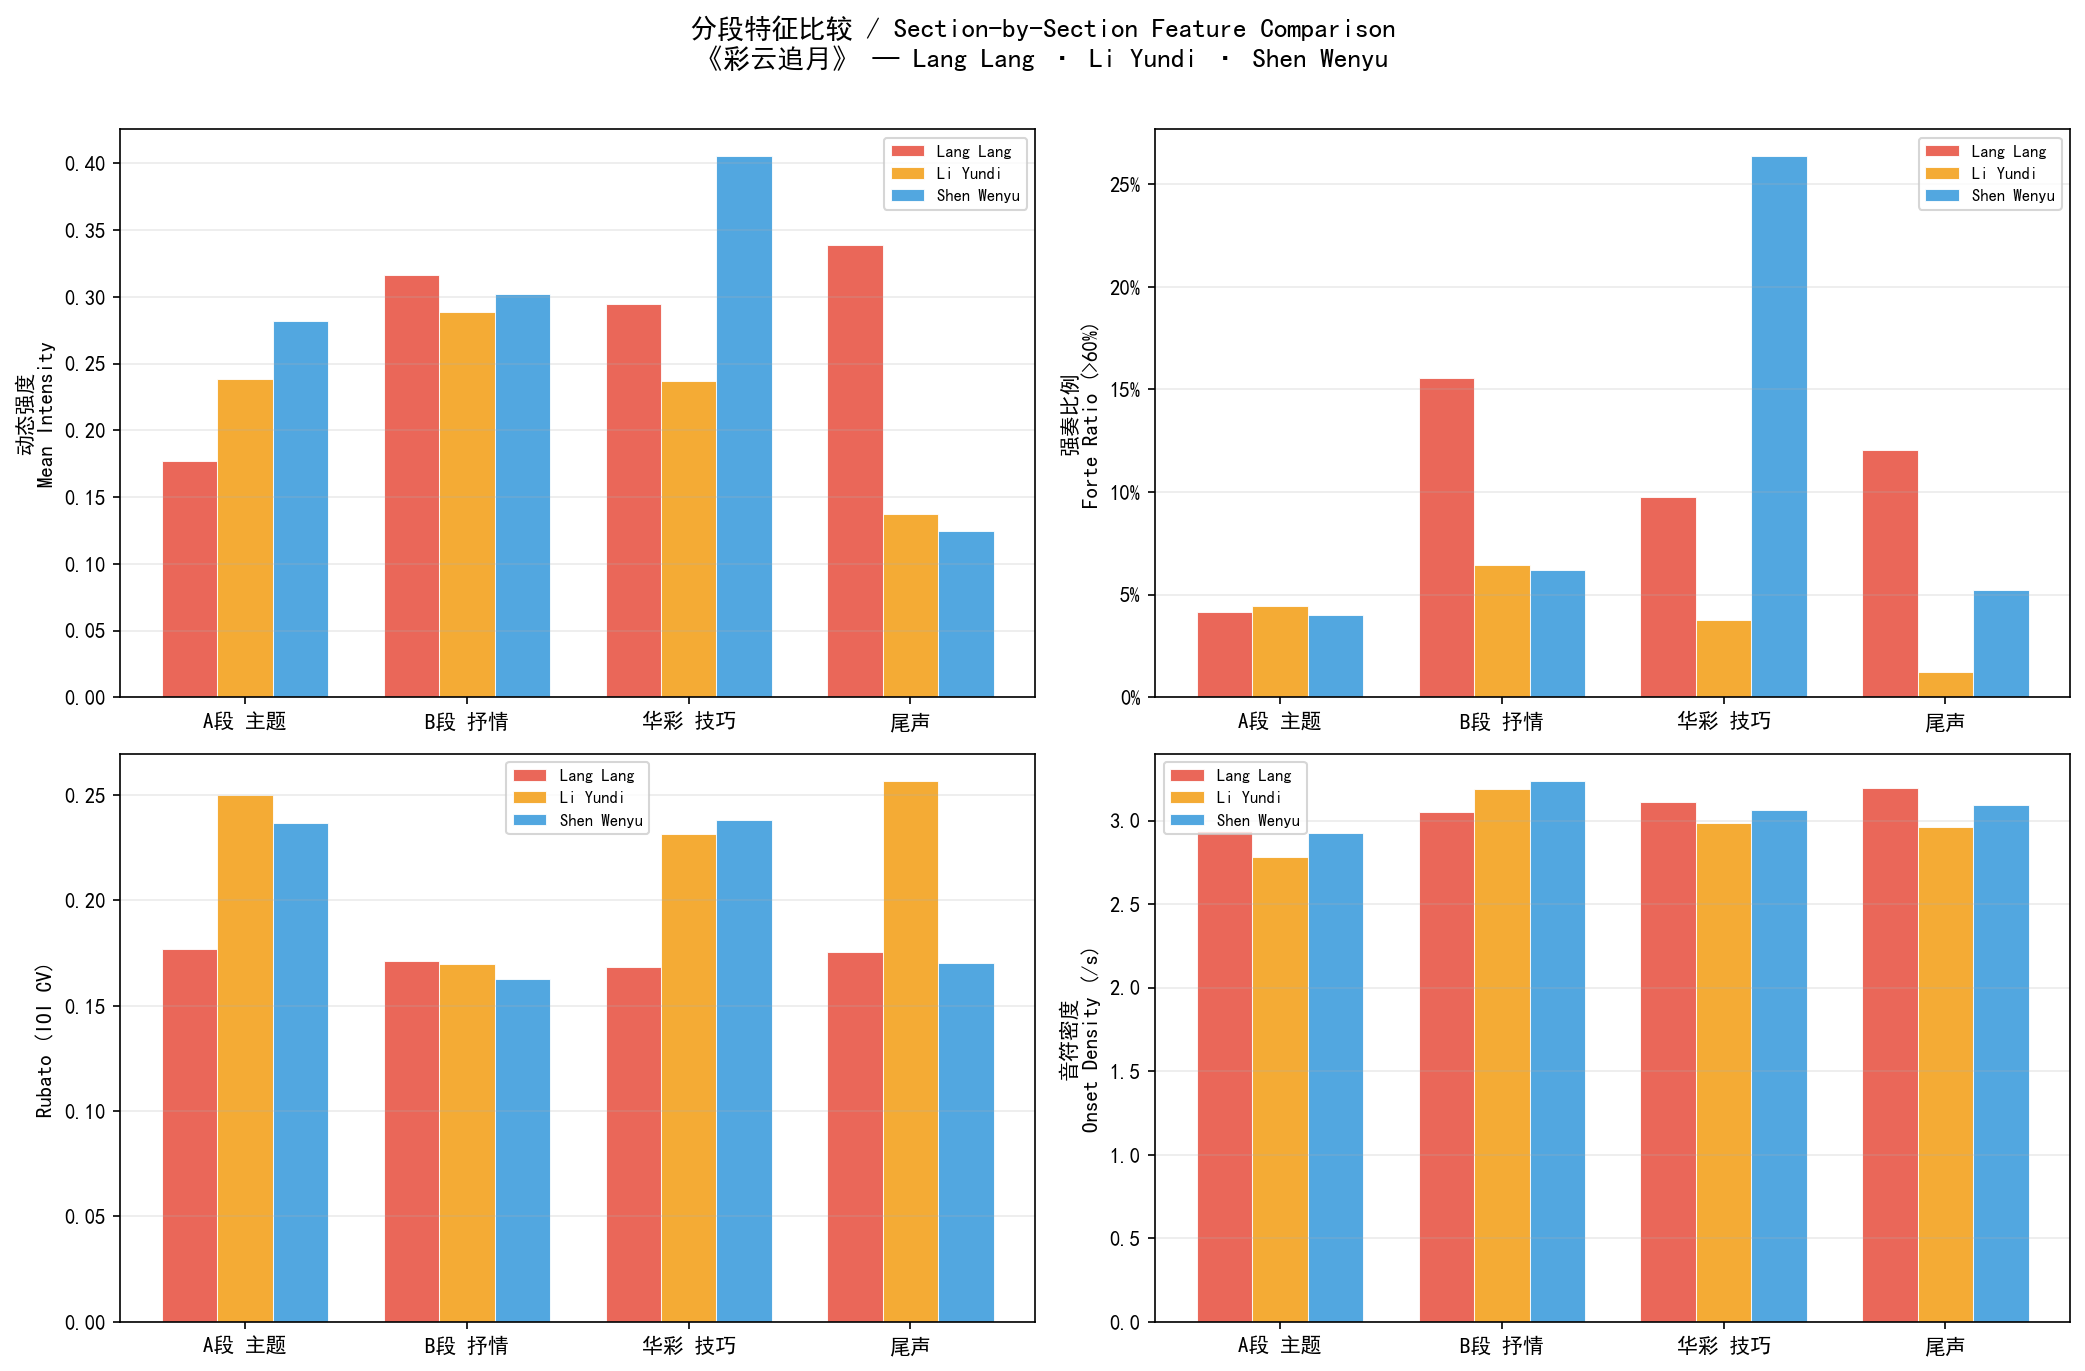
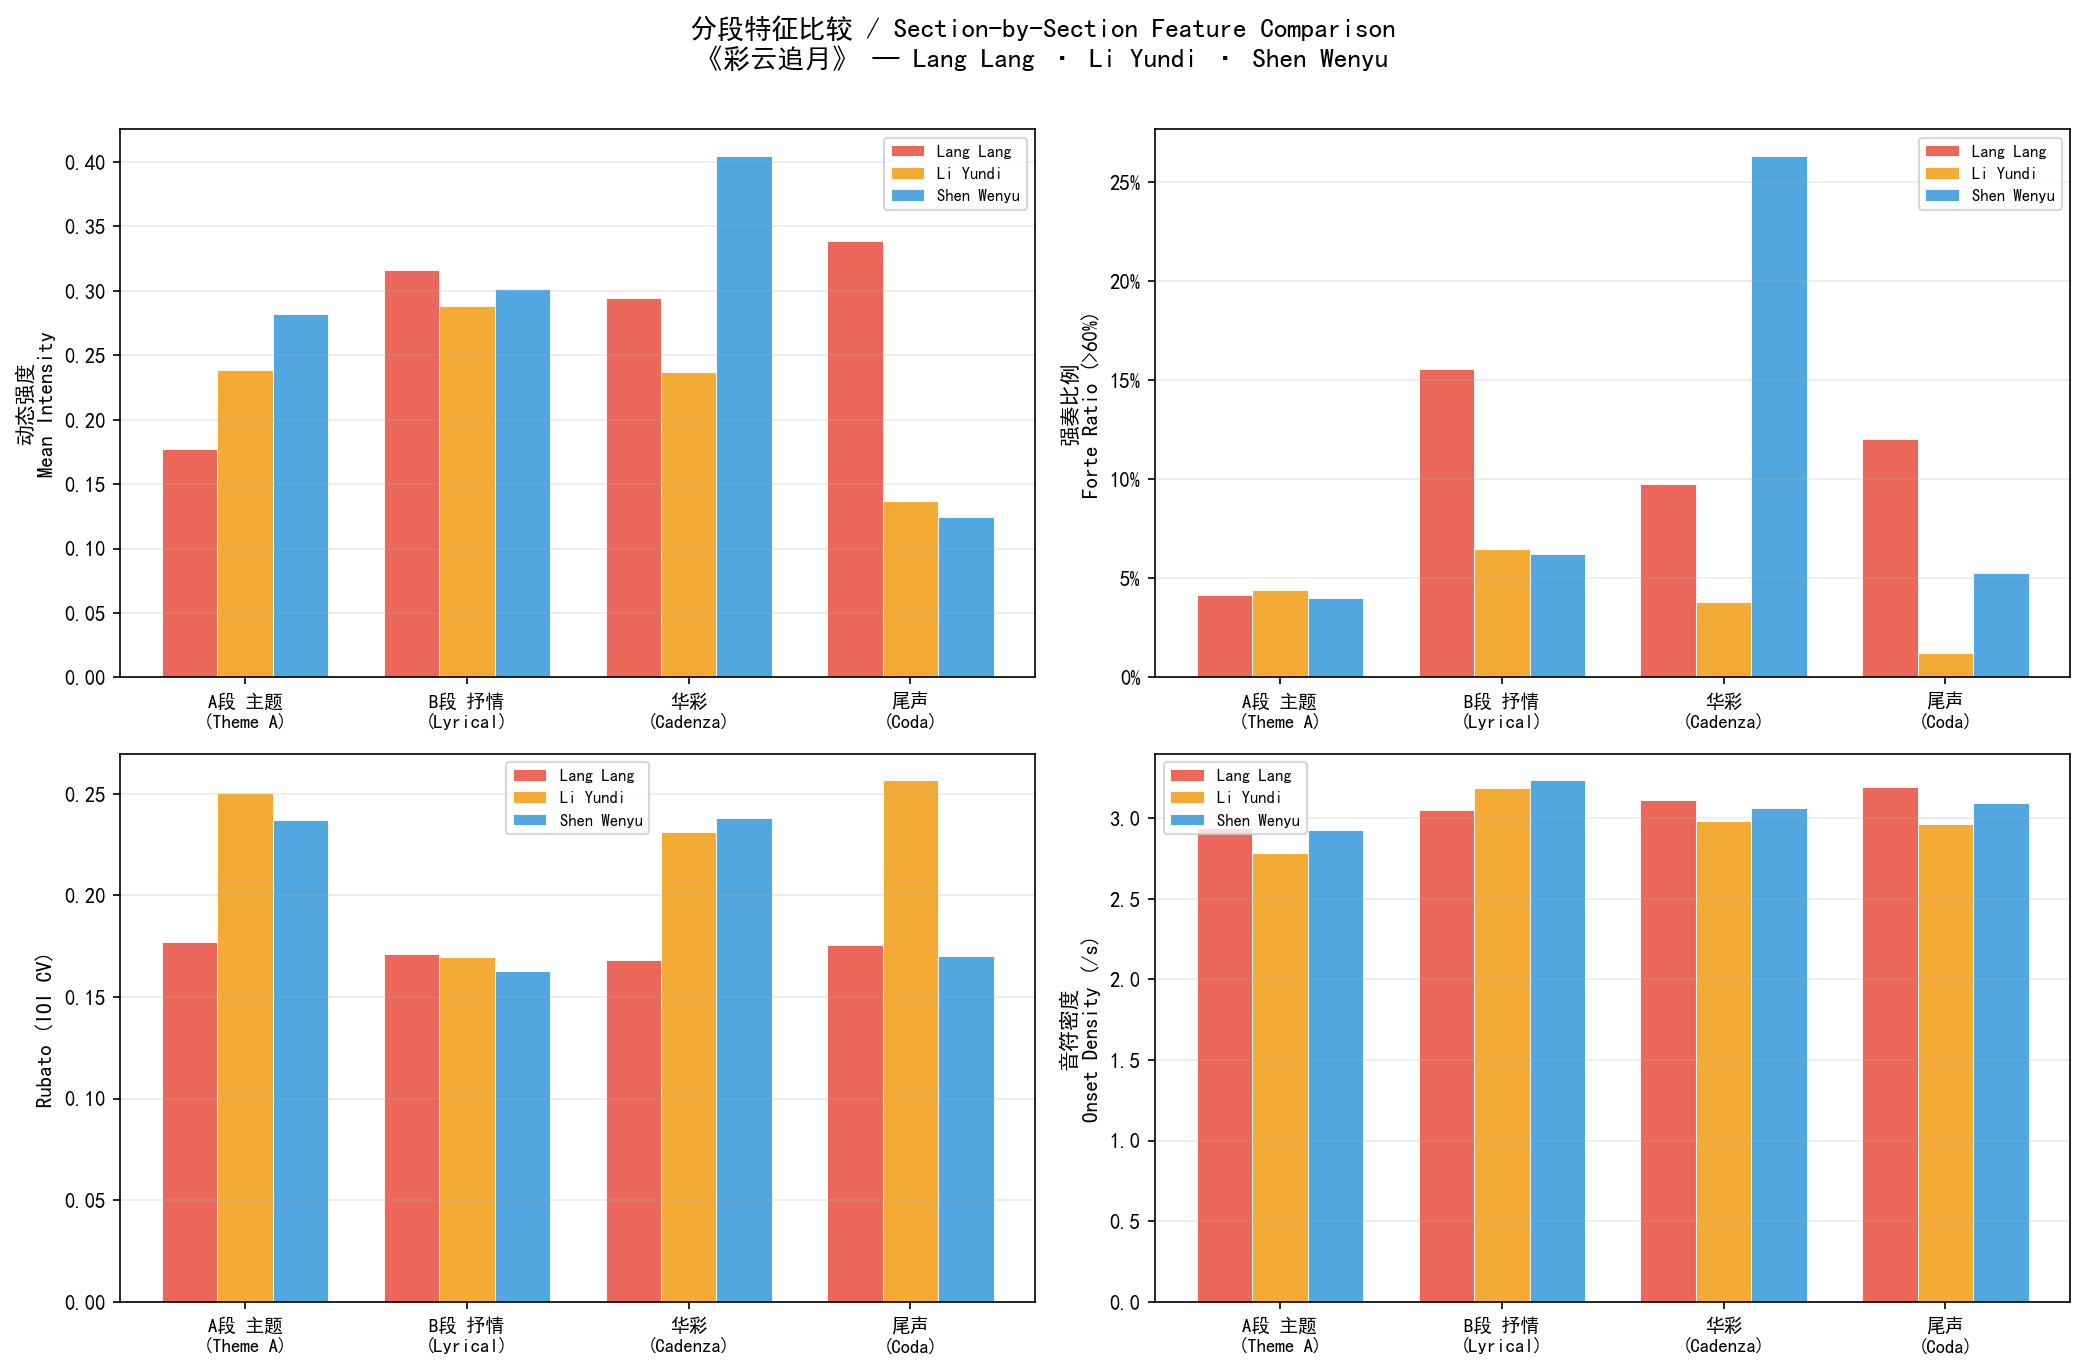
Add bilingual x-axis labels to section analysis plots (14/15/16)
Section names now show Chinese + English translation on all three plots,
e.g. 'A段 主题 (Theme A)', '华彩 (Cadenza)'.

diff --git a/section_analysis.py b/section_analysis.py
@@ -40,6 +40,12 @@ SECTIONS = [
     ('尾声',       130.0,  151.6),
 ]
 SECTION_NAMES = [s[0] for s in SECTIONS]
+SEC_DISPLAY = {
+    'A段\n主题':  'A段 主题\n(Theme A)',
+    'B段\n抒情':  'B段 抒情\n(Lyrical)',
+    '华彩\n技巧': '华彩\n(Cadenza)',
+    '尾声':       '尾声\n(Coda)',
+}
 
 # ── Performers ───────────────────────────────────────────────────────────────
 PERFORMERS = {
@@ -195,7 +201,7 @@ for mi, (ax, (metric_key, metric_label, as_pct)) in enumerate(zip(axes, METRICS)
                       color=color, alpha=0.85, edgecolor='white', linewidth=0.5)
 
     ax.set_xticks(x)
-    ax.set_xticklabels([s[0].replace('\n', ' ') for s in SECTIONS], fontsize=10)
+    ax.set_xticklabels([SEC_DISPLAY.get(s[0], s[0]) for s in SECTIONS], fontsize=9)
     ax.set_ylabel(metric_label, fontsize=10)
     ax.legend(fontsize=8)
     ax.grid(True, alpha=0.25, axis='y')
@@ -237,9 +243,9 @@ for ri, name in enumerate(PERF_NAMES):
         ax.barh(metric_labels_short, vals_norm, color=color, alpha=0.75)
         ax.set_xlim(0, 1)
         ax.set_xlabel('Normalised', fontsize=7)
-        title = sec_name.replace('\n', ' ')
+        title = SEC_DISPLAY.get(sec_name, sec_name.replace('\n', ' '))
         if ri == 0:
-            ax.set_title(title, fontsize=10, fontweight='bold')
+            ax.set_title(title, fontsize=9, fontweight='bold')
         if ci == 0:
             ax.set_ylabel(name, fontsize=10, fontweight='bold', color=color)
         ax.tick_params(axis='both', labelsize=7)
@@ -256,7 +262,7 @@ print(f"Saved: {p2}")
 # ── Plot 3: Timing CV and Forte Ratio side-by-side across sections ───────────
 fig, (ax1, ax2) = plt.subplots(1, 2, figsize=(13, 5))
 
-sec_labels = [s[0].replace('\n', ' ') for s in SECTIONS]
+sec_labels = [SEC_DISPLAY.get(s[0], s[0]) for s in SECTIONS]
 
 for name, color in zip(PERF_NAMES, COLORS):
     cvs    = [results[name]['sections'].get(s[0], {}).get('timing_cv', 0)    for s in SECTIONS]
